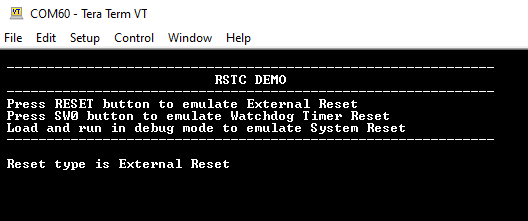
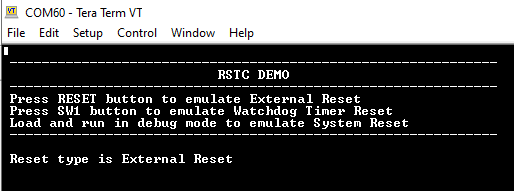
[APPS_DOCS] Updated the RSTC Demo on PIC32CM LS00 CNANO map | M32MM-2516

Changed region(s): [[0.0, 0.1309, 1.0, 1.0], [0.0, 0.0262, 0.2802, 0.1047]]

diff --git a/apps/pic32cm_ls00_cnano/pic32cm_ls00_map_examples/begin/rstc_reset_cause/firmware/rstc/src/main.c b/apps/pic32cm_ls00_cnano/pic32cm_ls00_map_examples/begin/rstc_reset_cause/firmware/rstc/src/main.c
@@ -74,7 +74,7 @@ int main ( void )
     printf ("\n\r                           RSTC DEMO                           ");
     printf ("\n\r -------------------------------------------------------------");
     printf ("\n\r Press RESET button to emulate External Reset"); 
-    printf ("\n\r Press SW0 button to emulate Watchdog Timer Reset"); 
+    printf ("\n\r Press SW1 button to emulate Watchdog Timer Reset"); 
     printf ("\n\r Load and run in debug mode to emulate System Reset"); 
     printf ("\n\r ------------------------------------------------------------- \r\n");
     

diff --git a/apps/pic32cm_ls00_cnano/pic32cm_ls00_map_examples/begin/rstc_reset_cause/readme.md b/apps/pic32cm_ls00_cnano/pic32cm_ls00_map_examples/begin/rstc_reset_cause/readme.md
@@ -32,7 +32,7 @@ nav_order: 7
 	- SYSTICK
 	- WDT
 
-	The MCC Harmony project graph with all the components would look like this; 
+	The MCC Harmony project graph with all the components would look like this: 
 
     <img src = "images/project_graph.png" width="650" height="430" align="center">
 
@@ -87,13 +87,13 @@ The pre-built hex file can be programmed by following the below steps.
   
   **NOTE**: *The PIC32CM LS00 Curiosity Nano+ Touch Evaluation Kit does not include a reset button. Therefore, the device can be reset by executing the reset command in the CMD prompt.*
 - The following message is displayed on the serial terminal
-  <img src = "images/console_output_1.png" width="650" height="280" align="middle">
+  <img src = "images/console_output_1.png" width="650" height="250" align="middle">
 - Watchdog timer is fed periodically using System Timer (SysTick) to prevent the WDT reset and the LED1 is toggled
-- Press the switch SW1 on the PIC32CM LS00 Curiosity Nano+ Touch Evaluation Kit to put the system in deadlock (LED1 should stop blinking)
+- Press the SW1 on the PIC32CM LS00 Curiosity Nano+ Touch Evaluation Kit to put the system in deadlock (LED1 should stop blinking)
 - WDT will reset the device in four seconds and the demonstration should restart
  
 ## Tera Term Output:
-- <img src = "images/console_output_2.png" width="650" height="330" align="middle">
+- <img src = "images/console_output_2.png" width="650" height="340" align="middle">
 
 ## Comments:
 - Reference Training Module: [Arm TrustZone Getting Started Application on PIC32CM LS60 (Arm Cortex-M23) MCUs](https://developerhelp.microchip.com/xwiki/bin/view/software-tools/harmony/pic32cm-trustzone-getting-started-training-module/)
